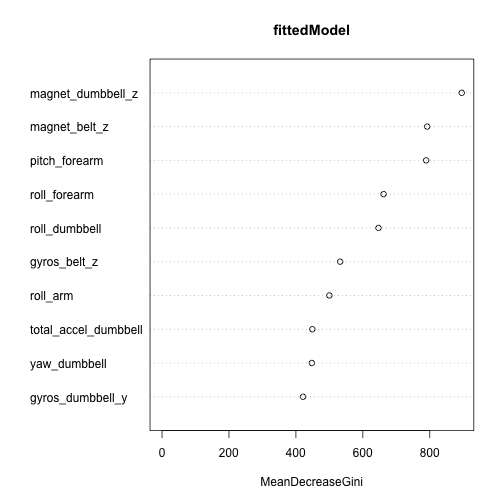
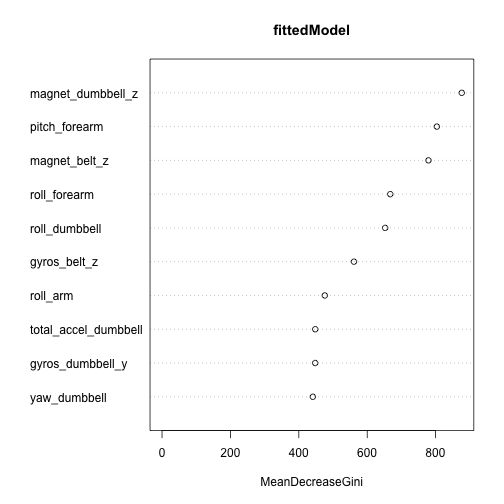
fixing a few more typos

diff --git a/Machine Learning 010 - Project Writeup.md b/Machine Learning 010 - Project Writeup.md
@@ -28,8 +28,7 @@ validation = validation[,completeCasesByVariables]
 
 
 
-
-The training set now contains 19622 and variables 86 variables, but some of these contain no variation or are covarient with other variables, and thus should be removed. Note that we are also removing the variables from the validation set.
+The training set now contains 19622 and 86 variables, but some of these contain no variation or are covarient with other variables, and thus should be removed. Note that we are also removing the variables from the validation set.
 
 
 ```r
@@ -59,7 +58,7 @@ trainingSet = training[inTrain,]
 testingSet  = training[-inTrain,]
 ```
 
-Next will train the model using all remaining variables using the _randomForest_ algorithm with the default options, and build a prediction based on our testing dataset.
+Next we will train the model using all remaining variables using the _randomForest_ algorithm with the default options, and build a prediction based on our testing dataset.
 
 
 ```r
@@ -73,12 +72,12 @@ modelAccuracy$overall
 
 ```
 ##       Accuracy          Kappa  AccuracyLower  AccuracyUpper   AccuracyNull 
-##      0.9900082      0.9873586      0.9868115      0.9925991      0.2858891 
+##      0.9902121      0.9876169      0.9870433      0.9927746      0.2860930 
 ## AccuracyPValue  McnemarPValue 
 ##      0.0000000            NaN
 ```
 
-Our model provides a 0.9900082% accuracy, which is pleasantly sufficient, and predicts most variables very well.
+Our model provides a 0.9902121% accuracy, which is pleasantly sufficient, and predicts most variables very well.
 
 
 ```r
@@ -89,11 +88,11 @@ table(predictResult, testingSet$classe)
 ```
 ##              
 ## predictResult    A    B    C    D    E
-##             A 1394    7    1    0    0
-##             B    1  939   11    0    0
-##             C    0    3  841   18    1
-##             D    0    0    0  785    4
-##             E    0    0    2    1  896
+##             A 1392   11    0    0    0
+##             B    3  932    9    0    0
+##             C    0    6  841   11    0
+##             D    0    0    5  791    1
+##             E    0    0    0    2  900
 ```
 
 Let's have a look at our 5 most important predictors.
@@ -104,19 +103,19 @@ rownames(variableImportance)[order(variableImportance, decreasing = T)][1:15]
 ```
 
 ```
-##  [1] "magnet_dumbbell_z"    "magnet_belt_z"        "pitch_forearm"       
+##  [1] "magnet_dumbbell_z"    "pitch_forearm"        "magnet_belt_z"       
 ##  [4] "roll_forearm"         "roll_dumbbell"        "gyros_belt_z"        
-##  [7] "roll_arm"             "total_accel_dumbbell" "yaw_dumbbell"        
-## [10] "gyros_dumbbell_y"     "accel_forearm_x"      "accel_forearm_z"     
-## [13] "magnet_forearm_z"     "magnet_arm_x"         "magnet_belt_x"
+##  [7] "roll_arm"             "total_accel_dumbbell" "gyros_dumbbell_y"    
+## [10] "yaw_dumbbell"         "accel_forearm_x"      "accel_forearm_z"     
+## [13] "magnet_forearm_z"     "yaw_arm"              "magnet_arm_x"
 ```
 ## Conclusion
 
-In this analysis, we showed that it is possible to predict with the outcome of a testing dataset 0.9900082% accuracy using simple machine learning techniques and the _randomForest_ algorithm. The total execution time of this script was under one minute using 19622 observations and 31 variables, demonstrating the usefulness of this easily applied method.
+In this analysis, we showed that it is possible to predict with the outcome of a testing dataset 0.9902121% accuracy using simple machine learning techniques and the _randomForest_ algorithm. The total execution time of this script was under one minute using 19622 observations and 31 variables, demonstrating the usefulness of this easily applied method.
 
 ## Appendix
 
-Plot of must important predictors and their cross-validation importance.
+Plot of must important predictors and their cross-validation importance using the Gini Scale.
 
 ```r
 varImpPlot(fittedModel, n.var = 10)
@@ -157,33 +156,33 @@ modelAccuracy
 ## 
 ##           Reference
 ## Prediction    A    B    C    D    E
-##          A 1394    1    0    0    0
-##          B    7  939    3    0    0
-##          C    1   11  841    0    2
-##          D    0    0   18  785    1
-##          E    0    0    1    4  896
+##          A 1392    3    0    0    0
+##          B   11  932    6    0    0
+##          C    0    9  841    5    0
+##          D    0    0   11  791    2
+##          E    0    0    0    1  900
 ## 
 ## Overall Statistics
-##                                           
-##                Accuracy : 0.99            
-##                  95% CI : (0.9868, 0.9926)
-##     No Information Rate : 0.2859          
-##     P-Value [Acc > NIR] : < 2.2e-16       
-##                                           
-##                   Kappa : 0.9874          
-##  Mcnemar's Test P-Value : NA              
+##                                          
+##                Accuracy : 0.9902         
+##                  95% CI : (0.987, 0.9928)
+##     No Information Rate : 0.2861         
+##     P-Value [Acc > NIR] : < 2.2e-16      
+##                                          
+##                   Kappa : 0.9876         
+##  Mcnemar's Test P-Value : NA             
 ## 
 ## Statistics by Class:
 ## 
 ##                      Class: A Class: B Class: C Class: D Class: E
-## Sensitivity            0.9943   0.9874   0.9745   0.9949   0.9967
-## Specificity            0.9997   0.9975   0.9965   0.9954   0.9988
-## Pos Pred Value         0.9993   0.9895   0.9836   0.9764   0.9945
-## Neg Pred Value         0.9977   0.9970   0.9946   0.9990   0.9993
-## Prevalence             0.2859   0.1939   0.1760   0.1609   0.1833
-## Detection Rate         0.2843   0.1915   0.1715   0.1601   0.1827
+## Sensitivity            0.9922   0.9873   0.9802   0.9925   0.9978
+## Specificity            0.9991   0.9957   0.9965   0.9968   0.9998
+## Pos Pred Value         0.9978   0.9821   0.9836   0.9838   0.9989
+## Neg Pred Value         0.9969   0.9970   0.9958   0.9985   0.9995
+## Prevalence             0.2861   0.1925   0.1750   0.1625   0.1839
+## Detection Rate         0.2838   0.1900   0.1715   0.1613   0.1835
 ## Detection Prevalence   0.2845   0.1935   0.1743   0.1639   0.1837
-## Balanced Accuracy      0.9970   0.9924   0.9855   0.9952   0.9977
+## Balanced Accuracy      0.9957   0.9915   0.9884   0.9947   0.9988
 ```
 
 ## Reference
